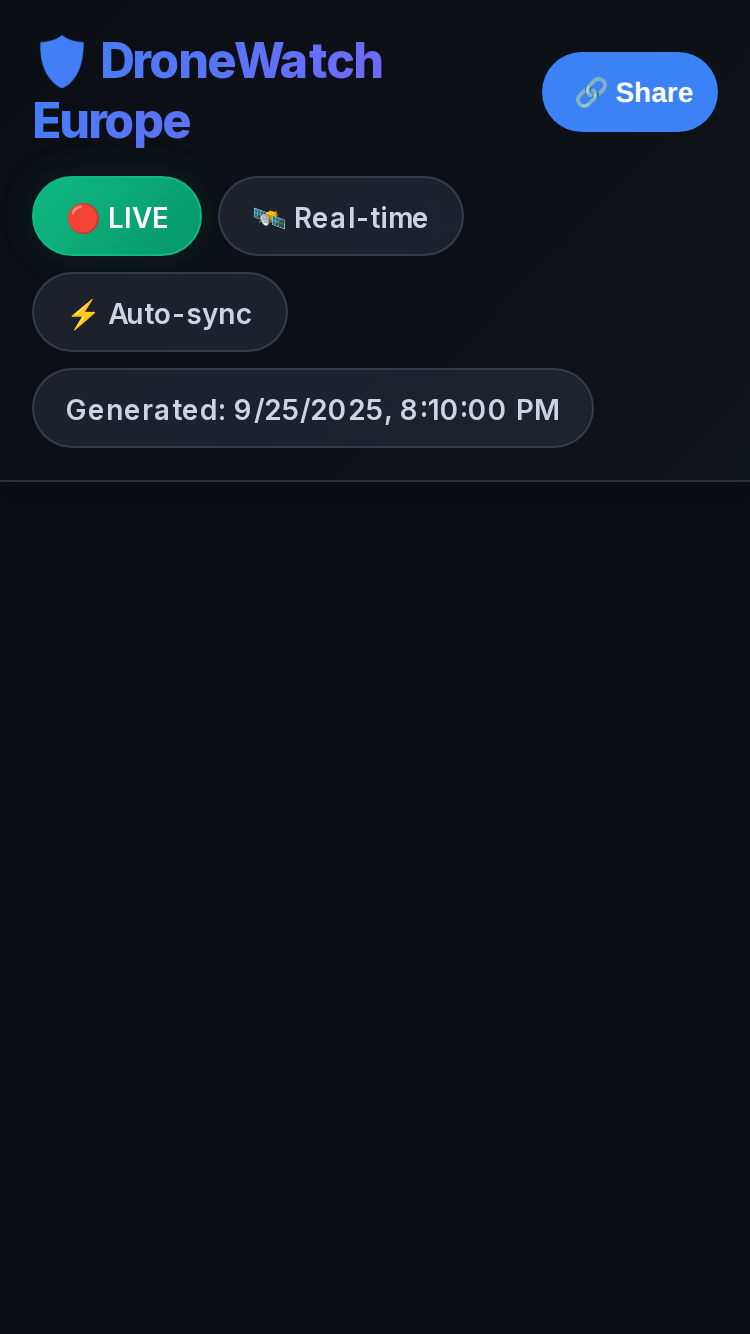
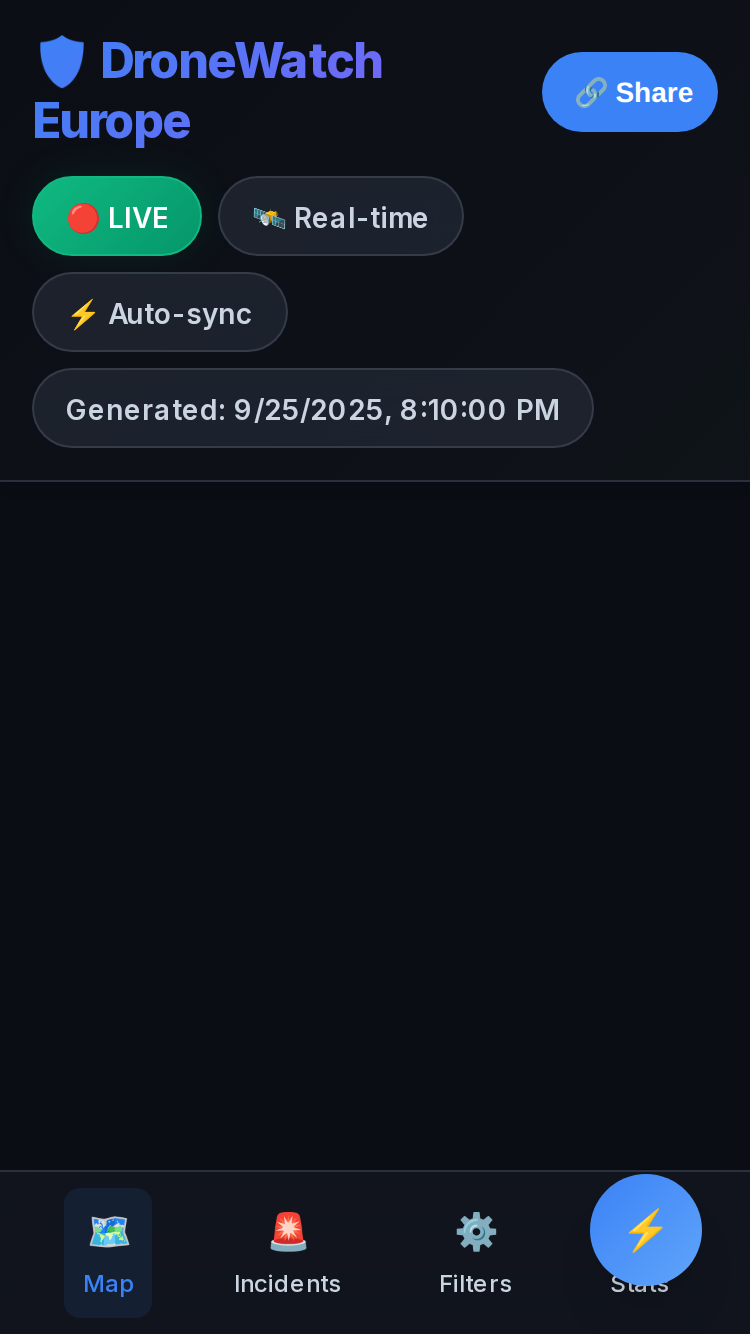
fix: Hide aside panels on mobile that were blocking map
- Hide #left (filters panel) on mobile
- Hide #right (incidents panel) on mobile
- Hide all aside elements with !important
- These panels were taking up space preventing map display
- Content accessible via bottom sheet navigation instead

🤖 Generated with [Claude Code](https://claude.ai/code)

diff --git a/index.html b/index.html
@@ -1034,9 +1034,14 @@
         display: none !important;
       }
 
-      /* Hide right panel on mobile - access via bottom sheet instead */
-      #right {
-        display: none;
+      /* Hide BOTH side panels on mobile - access via bottom sheet instead */
+      #left, #right {
+        display: none !important;
+      }
+
+      /* Ensure only map shows on mobile */
+      aside {
+        display: none !important;
       }
 
       /* Adjust main container for mobile nav */
